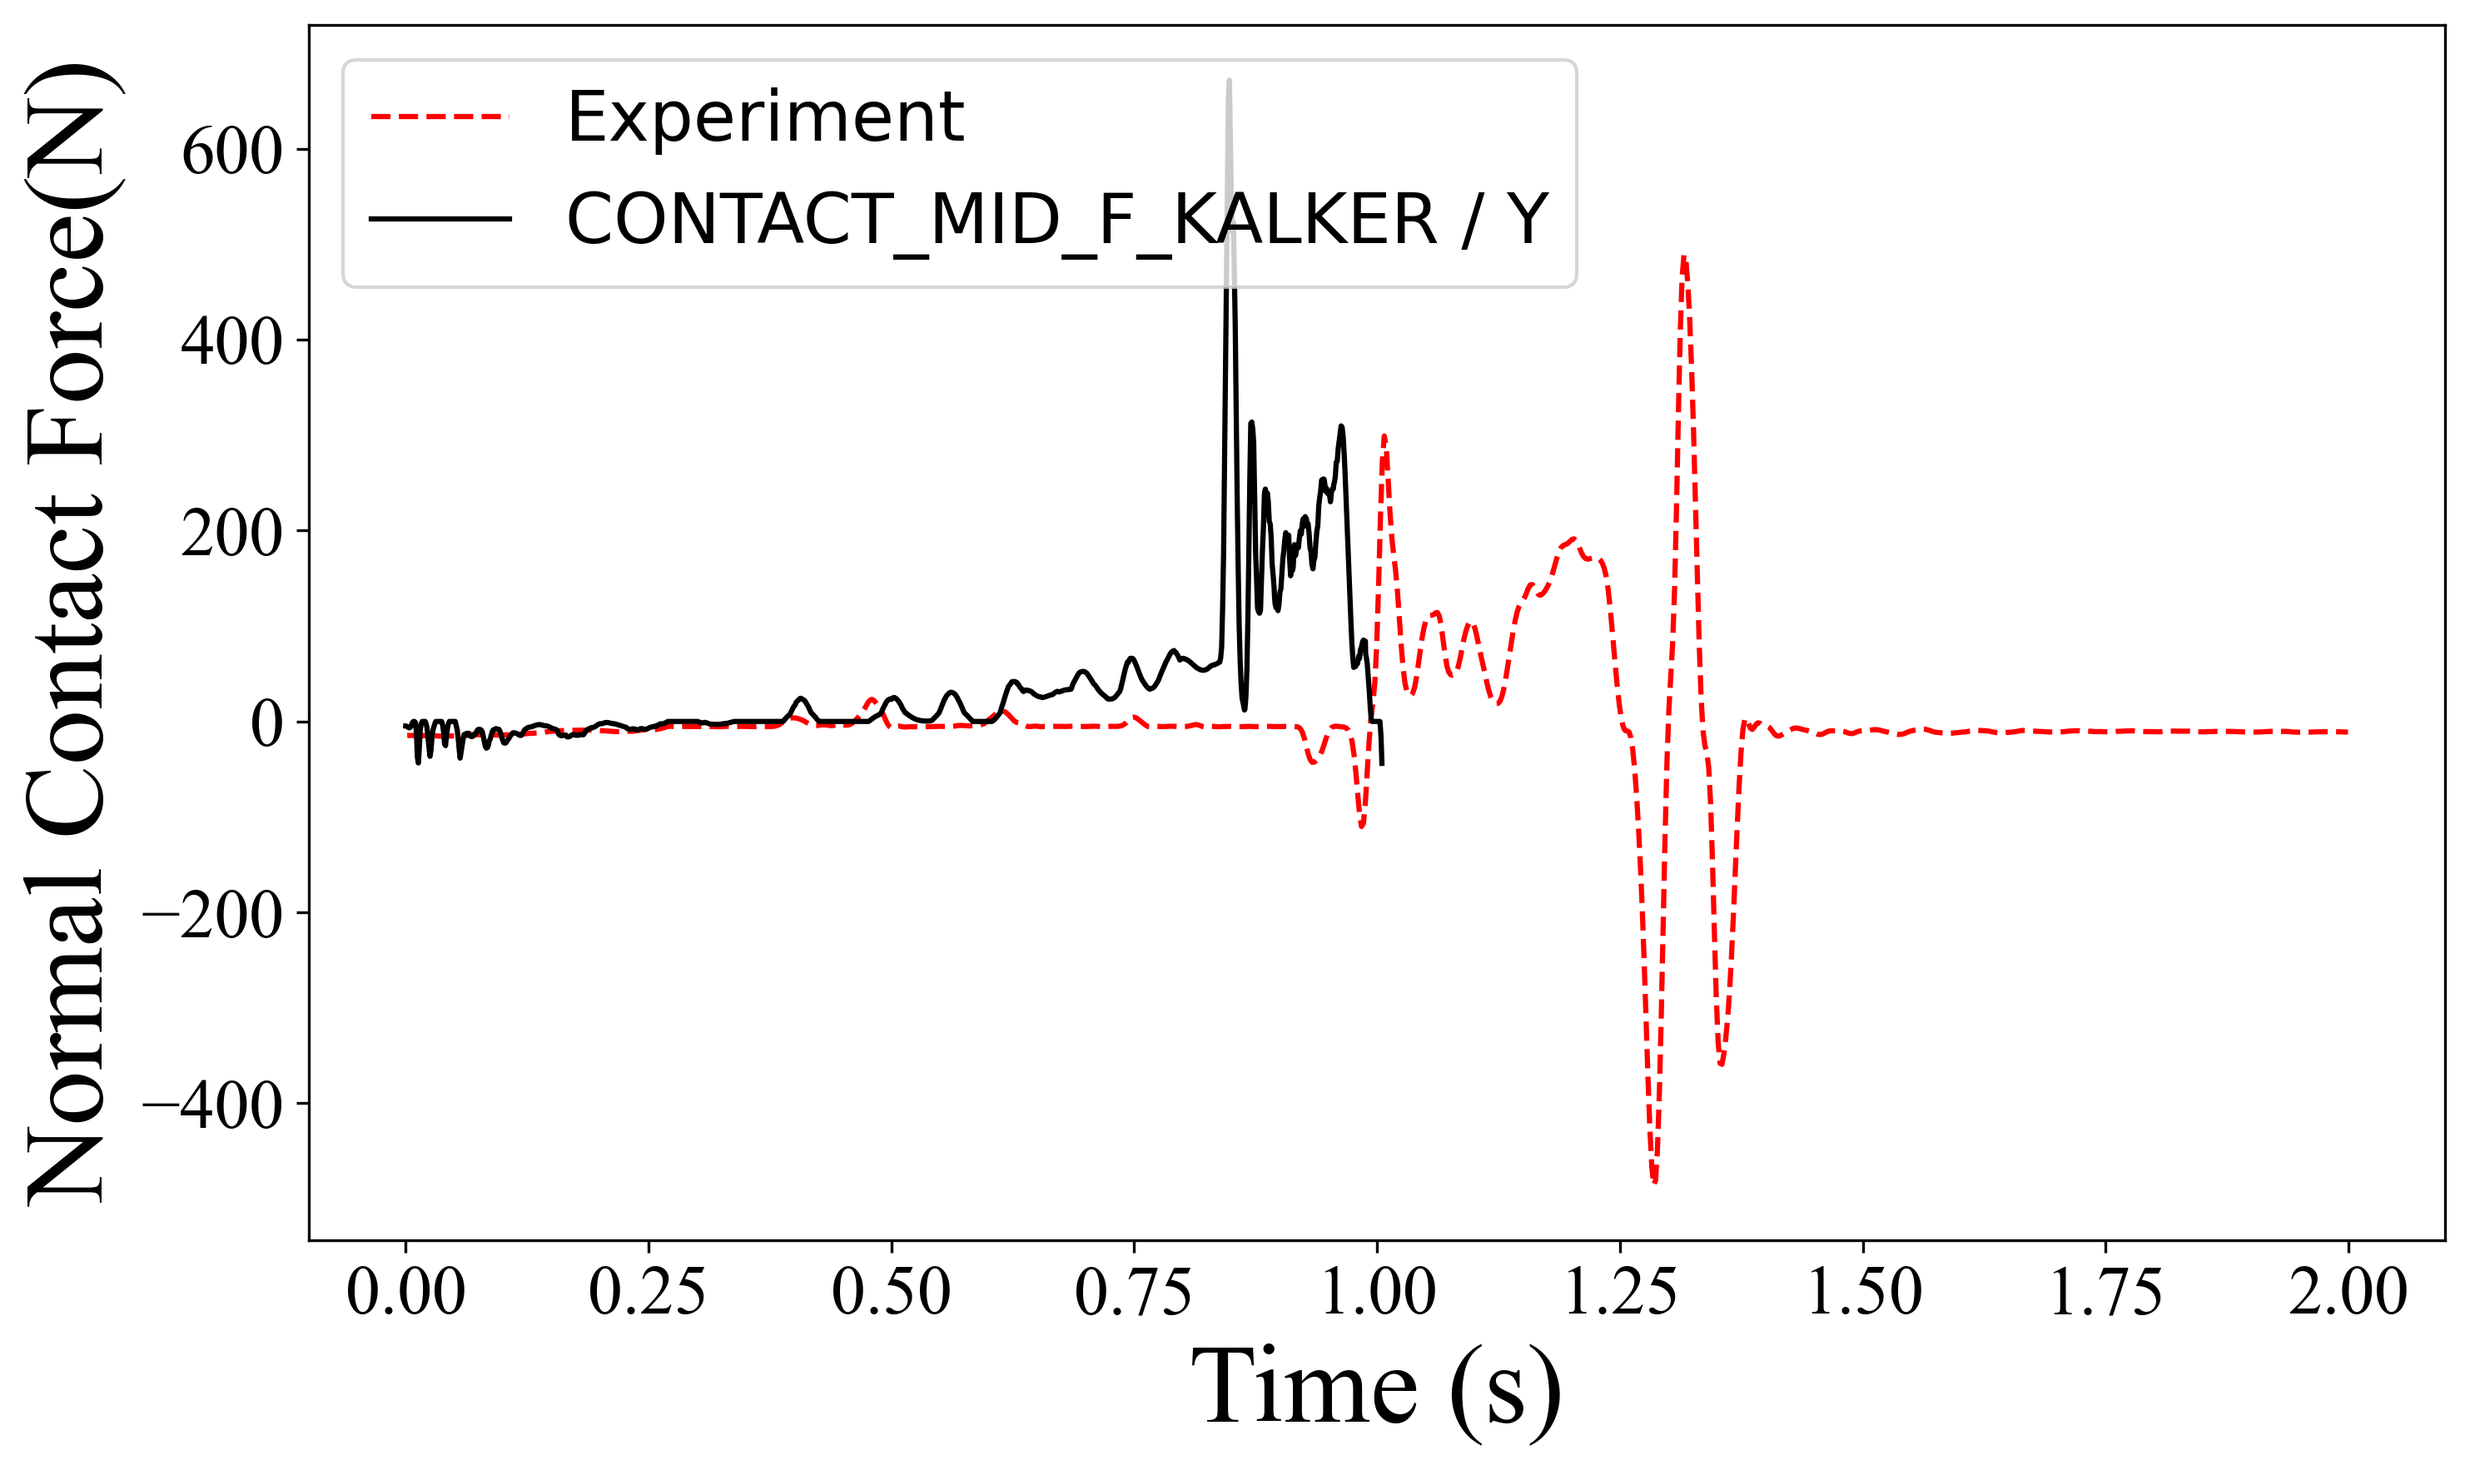
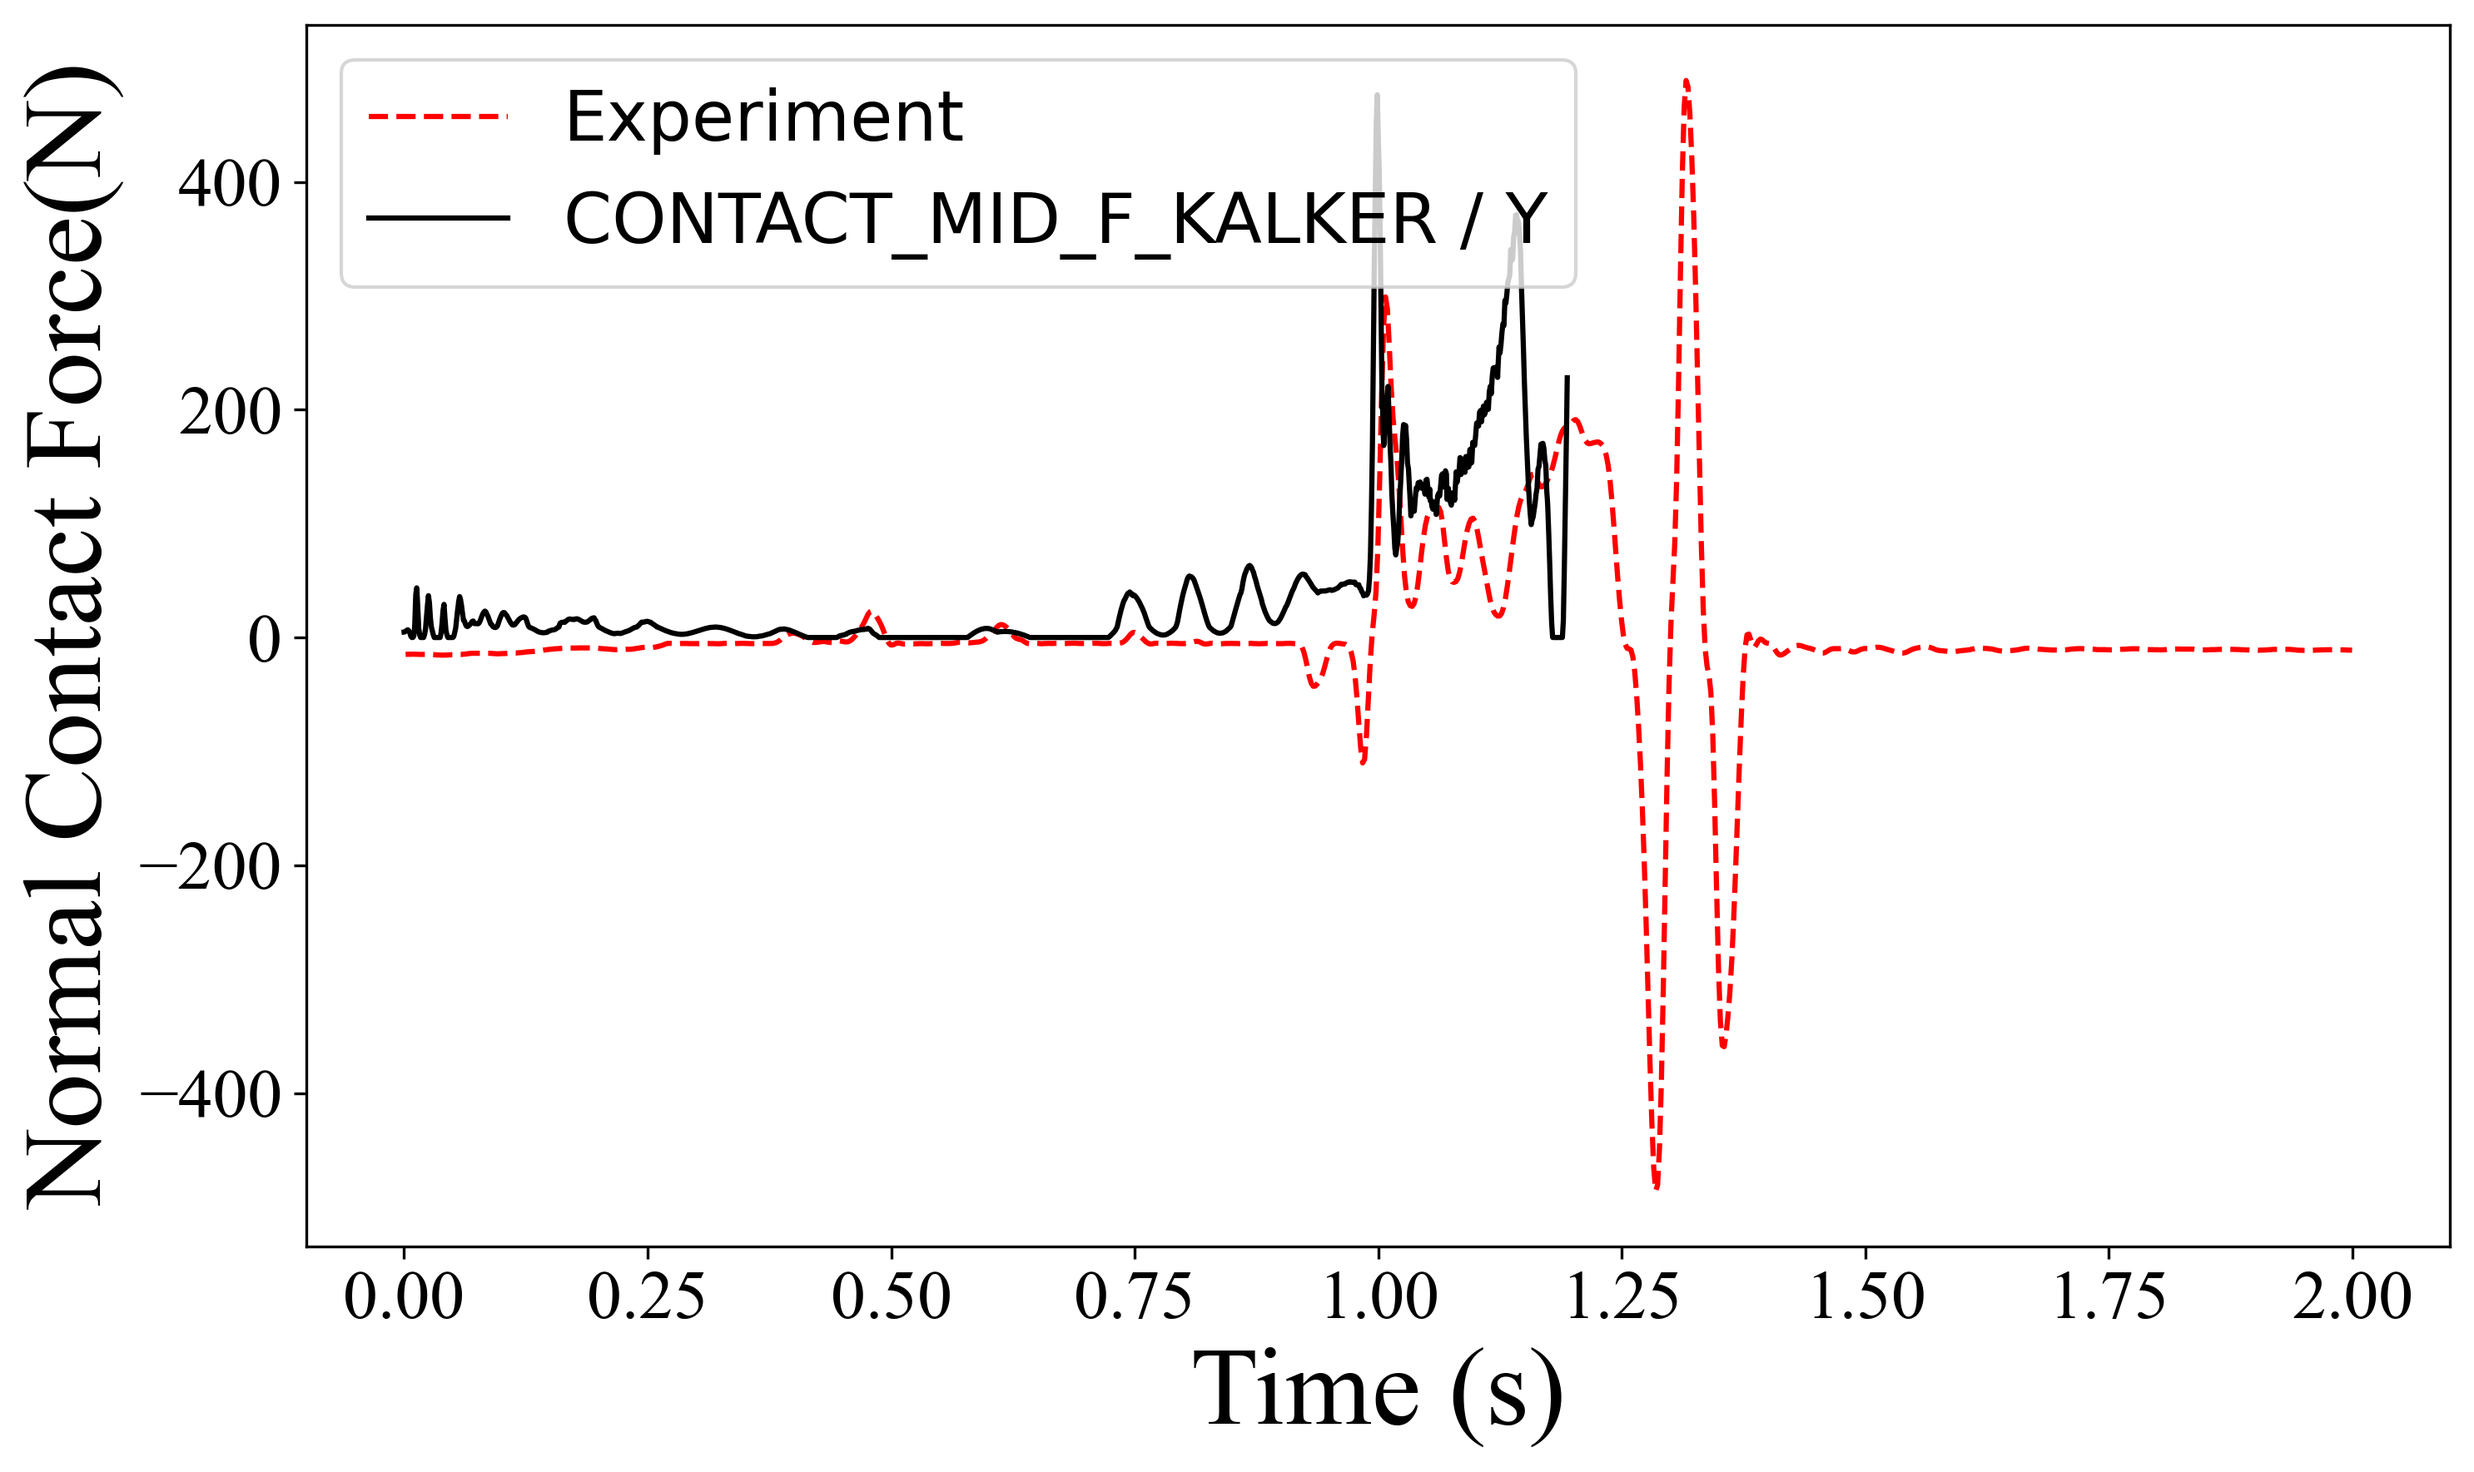
Enhance A20 performance comparison script and update VSCode settings
- Added calculation of magnitude for simulation data in A20.compare_expr_sim_performance.py
- Updated default selected columns for simulation data
- Modified VSCode settings to include custom action buttons for running scripts
- Added new validation output images and removed obsolete ones

diff --git a/Post/A22/A20.compare_expr_sim_performance.py b/Post/A22/A20.compare_expr_sim_performance.py
@@ -42,13 +42,13 @@ DATA_DIR = SCRIPT_DIR / "DATA"
 
 # Default parameters (used if not in config)
 DEFAULT_SIM_FILE = "req_KALKER_MID_F_clean.csv"
-DEFAULT_SELECTED_COLUMNS_SIM = ["U3"]
+DEFAULT_SELECTED_COLUMNS_SIM = ["U3", "U2"]
 DEFAULT_START_TIME_SIM = 0
 DEFAULT_END_TIME_SIM = 2
 DEFAULT_DATA_AMOUNT = 8
 DEFAULT_SMOOTHING_METHOD = "Rolling Mean"
 DEFAULT_WINDOW_SIZES_EXPR = [1] * 9
-DEFAULT_WINDOW_SIZES_SIM = [1] * 9
+DEFAULT_WINDOW_SIZES_SIM = [1]
 
 SIM_TIME_COL = "TIME"
 
@@ -126,6 +126,20 @@ def filter_data(df, time_col: str, start_time: float, end_time: float, columns: 
     filtered = df.loc[mask].copy()
     filtered[time_col] = time_series[mask]
     return filtered, columns[:max_columns]
+
+
+def calculate_magnitude(filtered_df, columns: List[str], magnitude_column: str = "magnitude"):
+    """Calculate sqrt(U3^2 + U2^2) for given columns and replace with single magnitude column."""
+    if len(columns) >= 2 and "U3" in columns and "U2" in columns:
+        # Convert to numeric
+        u3 = pd.to_numeric(filtered_df["U3"], errors="coerce").values
+        u2 = pd.to_numeric(filtered_df["U2"], errors="coerce").values
+        # Calculate magnitude
+        magnitude = np.sqrt(u3**2 + u2**2)
+        # Add magnitude column
+        filtered_df.loc[:, magnitude_column] = magnitude
+        return [magnitude_column]
+    return columns
 
 
 def apply_scaling(filtered_df, columns: List[str], scaling_dict: Dict[str, float]):
@@ -240,6 +254,9 @@ def main():
     filtered_df_sim, selected_columns_sim = filter_data(
         df_sim, SIM_TIME_COL, start_time_sim, end_time_sim, selected_columns_sim, DEFAULT_DATA_AMOUNT
     )
+
+    # Calculate magnitude for simulation data (sqrt(U3^2 + U2^2))
+    selected_columns_sim = calculate_magnitude(filtered_df_sim, selected_columns_sim, magnitude_column="magnitude")
 
     # Apply scaling
     filtered_df_expr = apply_scaling(filtered_df_expr, selected_columns_expr, scaling_dict)
